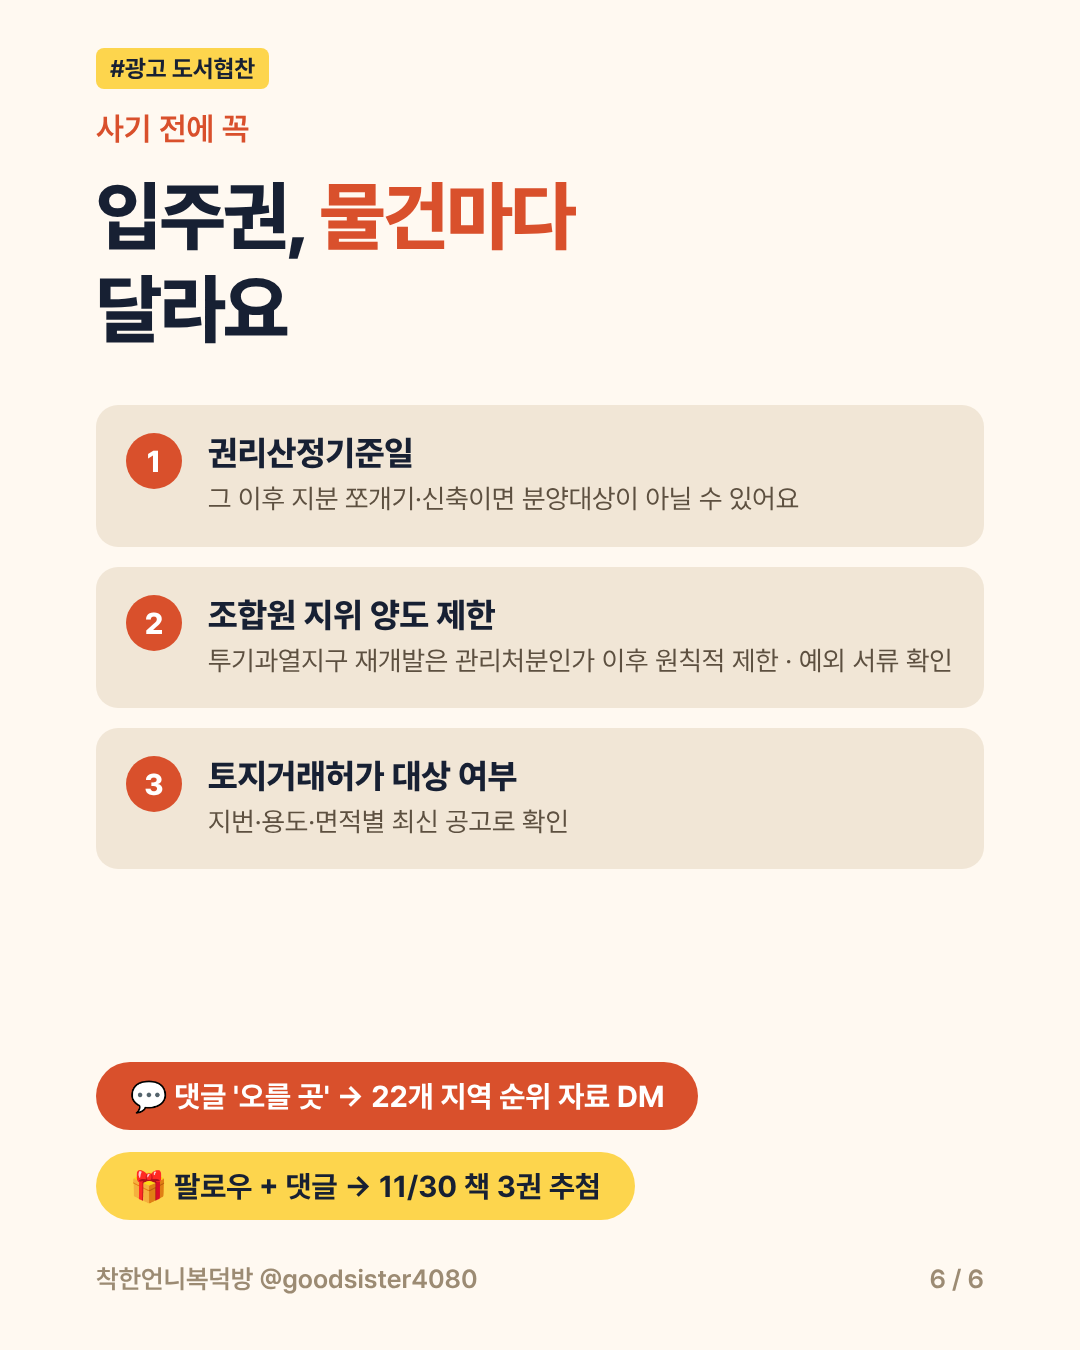
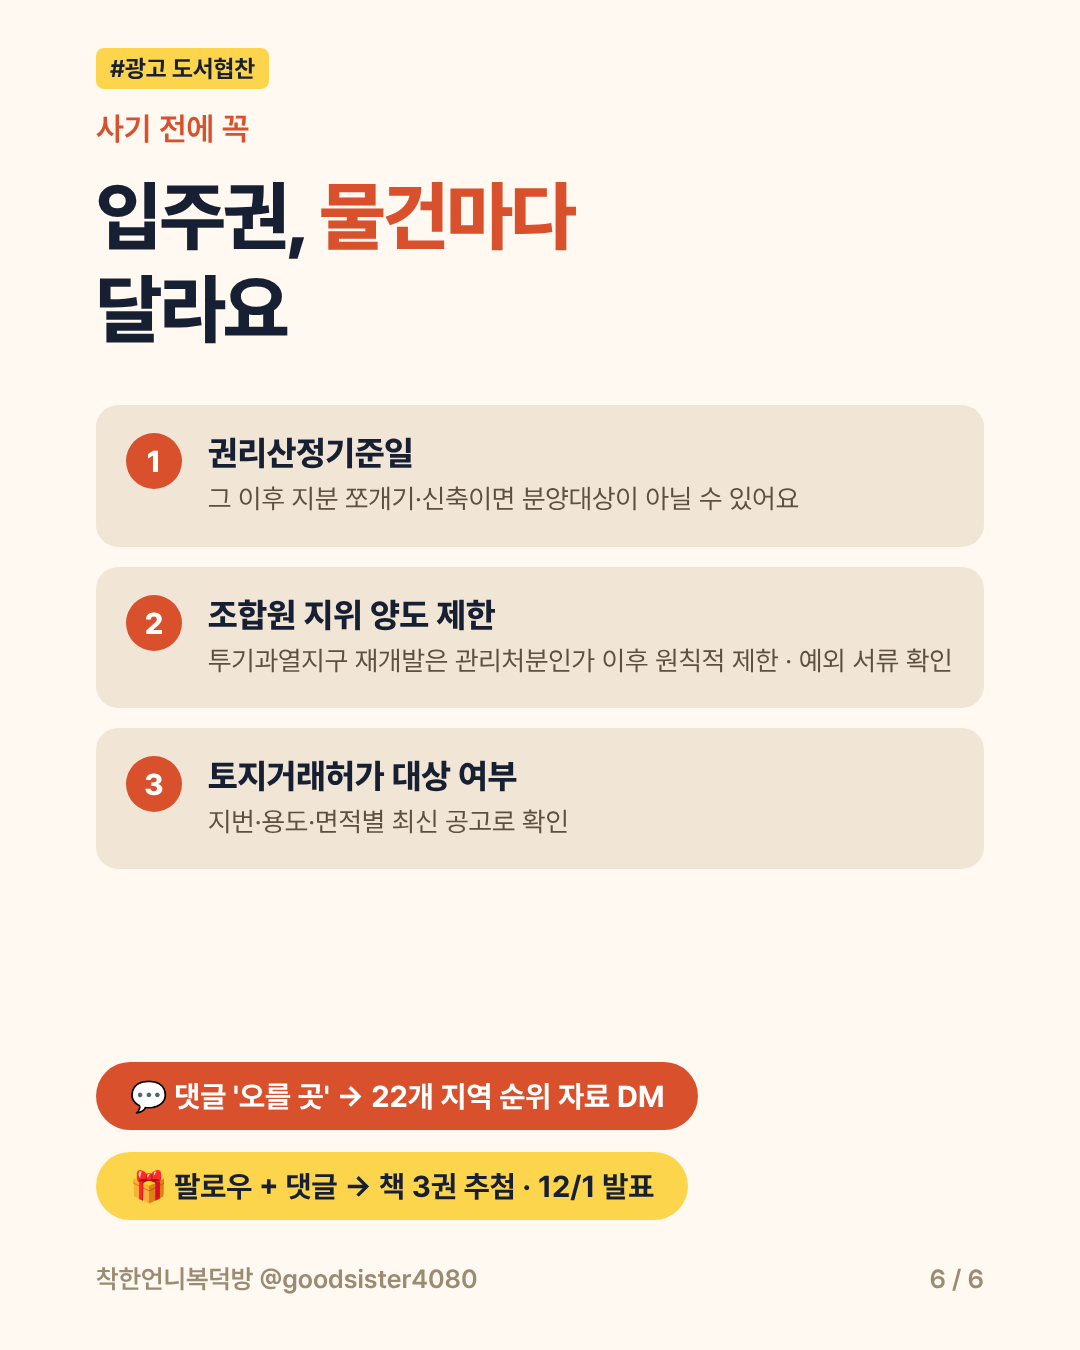
Sillim card: draw date 12/1 on slides 1·6, caption/pinned update, add to upload kit
Claude-Session: https://claude.ai/code/session_01TVq9M4GpnT2XRseWGn9WC1

Changed region(s): [[0.3361, 0.84, 0.6417, 0.9022]]

diff --git a/instagram/cards/kit.html b/instagram/cards/kit.html
@@ -10,7 +10,68 @@ pre{white-space:pre-wrap;word-break:keep-all;margin:0;padding:14px;font-family:i
 code{background:#FFD84D;padding:2px 8px;border-radius:6px}a.back{font-size:14px}
 </style></head><body><div class="w"><a class="back" href="../../">← 대시보드</a><h1>📤 카드뉴스 업로드 키트</h1>
 <p class="note">캡션·고정 댓글·DM 문구를 버튼 한 번으로 복사하세요.</p>
-<section><h2>🚨 잠실권 래미안아이파크 재공급 (DM 없음)</h2><div class="th"><a href="2026-11-17-jamsil/card-1117-1.png?v=3" download><img src="2026-11-17-jamsil/card-1117-1.png?v=3"></a><a href="2026-11-17-jamsil/card-1117-2.png?v=3" download><img src="2026-11-17-jamsil/card-1117-2.png?v=3"></a><a href="2026-11-17-jamsil/card-1117-3.png?v=3" download><img src="2026-11-17-jamsil/card-1117-3.png?v=3"></a><a href="2026-11-17-jamsil/card-1117-4.png?v=3" download><img src="2026-11-17-jamsil/card-1117-4.png?v=3"></a><a href="2026-11-17-jamsil/card-1117-5.png?v=3" download><img src="2026-11-17-jamsil/card-1117-5.png?v=3"></a><a href="2026-11-17-jamsil/card-1117-6.png?v=3" download><img src="2026-11-17-jamsil/card-1117-6.png?v=3"></a></div><p class="note">저장·공유형이라 소셜비즈 설정이 없어요.</p><div class="box"><div class="hd"><b>① 캡션</b><button onclick="cp(this)">복사</button></div><pre>🚨 잠실권 새 아파트 84㎡,
+<section><h2>신림 재개발 (도서협찬 · 12/1 발표)</h2>
+<div class="th"><a href="2026-11-sillim/ig-sillim-1.jpg?v=3" download><img src="2026-11-sillim/ig-sillim-1.jpg?v=3"></a><a href="2026-11-sillim/ig-sillim-2.jpg?v=3" download><img src="2026-11-sillim/ig-sillim-2.jpg?v=3"></a><a href="2026-11-sillim/ig-sillim-3.jpg?v=3" download><img src="2026-11-sillim/ig-sillim-3.jpg?v=3"></a><a href="2026-11-sillim/ig-sillim-4.jpg?v=3" download><img src="2026-11-sillim/ig-sillim-4.jpg?v=3"></a><a href="2026-11-sillim/ig-sillim-5.jpg?v=3" download><img src="2026-11-sillim/ig-sillim-5.jpg?v=3"></a><a href="2026-11-sillim/ig-sillim-6.jpg?v=3" download><img src="2026-11-sillim/ig-sillim-6.jpg?v=3"></a></div><p class="note">이미지를 길게 누르거나(휴대폰) 클릭하면 저장돼요.</p>
+<div class="box"><div class="hd"><b>① 캡션</b><button onclick="cp(this)">복사</button></div><pre>#광고 #도서협찬
+신림 재개발, 구역마다 단계가 달라요 🏗
+
+3구역 입주 완료 (571세대)
+2구역 착공 (1,430세대)
+1구역 사업시행인가 (4,185세대)
+나머지는 이제 출발선이에요.
+(관악구 현황 2026.10.26)
+
+1~3구역 합치면 6,186세대지만
+3구역은 이미 입주했어요.
+입주 시기가 다 다른 6천여 세대예요.
+
+📩 댓글에 &#x27;오를 곳&#x27; 남기시면
+서울·수도권 22개 지역 순위 자료를
+DM으로 보내드려요. (팔로워분들께 발송)
+
+🎁 《이제부터는 오를 곳만 오른다》 3분 추첨
+팔로우 + 댓글이면 참여 완료!
+당첨자 발표 12월 1일(화)
+
+📞 상담은 프로필 링크 → 카톡 채널
+
+착한언니복덕방 팔로우하면
+살이 되고 돈이 되는
+부동산 정보, 계속 드릴게요 💛
+
+출처 | 관악구 재정비촉진구역 현황, 서울시·관악구 고시,
+국토부 실거래, 서울시 신림선 발표
+지도 © OpenStreetMap contributors
+
+#신림재개발 #신림뉴타운 #신림1구역 #신림2구역 #관악구 #재개발 #내집마련 #착한언니복덕방</pre></div><div class="box"><div class="hd"><b>② 고정 댓글</b><button onclick="cp(this)">복사</button></div><pre>🎁 아무 댓글이나 남기셔도 무료자료 보내드릴게요! 💛
+
+책 3권 추첨 당첨자 발표는 12월 1일(화)이에요.
+재개발 궁금한 친구에게도 공유해 주세요. 🏗</pre></div><div class="box"><div class="hd"><b>③ 노션 자료 링크 · 「6년 뒤 서울 부동산 순위 · 22개 지역 순위」 (2차 DM [자료 받기] 버튼에 넣기)</b><button onclick="cp(this)">복사</button></div><pre>https://www.notion.so/40ff79216746812d8709d8e029ff0606</pre></div><p class="note">링크가 로그인 없이 열리는지 시크릿 창으로 한 번 확인해 주세요. 노션에서 "웹에 게시"가 켜져 있어야 열려요.</p>
+<h3>소셜비즈 설정 · 키워드 <code>오를 곳</code></h3>
+<p class="note">팔로워/논팔로워 구분 발송 · 텍스트 버튼 사용</p><div class="box"><div class="hd"><b>1차 기본 메시지 (+ [팔로우했어요] 버튼)</b><button onclick="cp(this)">복사</button></div><pre>안녕하세요! 착한언니복덕방입니다. 👋
+
+재개발·새 아파트, 어디가 오를지 헷갈리지 않도록
+서울·수도권 22개 지역 순위를
+한눈에 볼 수 있게 정리했어요.
+
+이 자료는 착한언니복덕방을 응원해 주시는
+팔로워분들께 무료로 공유하고 있어요. 😊
+
+팔로우하셨다면 아래 버튼을 눌러주세요!</pre></div><div class="box"><div class="hd"><b>2차 팔로워에게 보낼 메시지 (+ [자료받기] 버튼 → URL)</b><button onclick="cp(this)">복사</button></div><pre>📋 6년 뒤 서울 부동산 순위 · 22개 지역
+
+재개발 소식은 많은데
+어디가 진짜 오를 곳인지 판단하기 어렵죠.
+
+그래서 《이제부터는 오를 곳만 오른다》를 읽고
+서울·수도권 22개 지역 순위를 정리했어요.
+
+📚 책 3권 추첨 당첨자 발표는 12월 1일(화)이에요.
+
+내 집 마련은 꼼꼼한 준비에서 시작돼요.
+착한언니복덕방이 응원합니다. 👏
+
+👇 [자료 받기] 클릭!</pre></div><div class="box"><div class="hd"><b>[자료받기] 버튼 URL</b><button onclick="cp(this)">복사</button></div><pre>https://www.notion.so/40ff79216746812d8709d8e029ff0606</pre></div><div class="box"><div class="hd"><b>댓글에 답글 남기기 (선택)</b><button onclick="cp(this)">복사</button></div><pre>DM 보내드렸어요! 📩 메시지함 확인해 주세요</pre></div>
+</section><section><h2>🚨 잠실권 래미안아이파크 재공급 (DM 없음)</h2><div class="th"><a href="2026-11-17-jamsil/card-1117-1.png?v=3" download><img src="2026-11-17-jamsil/card-1117-1.png?v=3"></a><a href="2026-11-17-jamsil/card-1117-2.png?v=3" download><img src="2026-11-17-jamsil/card-1117-2.png?v=3"></a><a href="2026-11-17-jamsil/card-1117-3.png?v=3" download><img src="2026-11-17-jamsil/card-1117-3.png?v=3"></a><a href="2026-11-17-jamsil/card-1117-4.png?v=3" download><img src="2026-11-17-jamsil/card-1117-4.png?v=3"></a><a href="2026-11-17-jamsil/card-1117-5.png?v=3" download><img src="2026-11-17-jamsil/card-1117-5.png?v=3"></a><a href="2026-11-17-jamsil/card-1117-6.png?v=3" download><img src="2026-11-17-jamsil/card-1117-6.png?v=3"></a></div><p class="note">저장·공유형이라 소셜비즈 설정이 없어요.</p><div class="box"><div class="hd"><b>① 캡션</b><button onclick="cp(this)">복사</button></div><pre>🚨 잠실권 새 아파트 84㎡,
 옆집은 43억, 이 집은 18억 7천이에요
 📌 11/23 접수 전에 저장해 두세요.
 
@@ -24,7 +85,7 @@ code{background:#FFD84D;padding:2px 8px;border-radius:6px}a.back{font-size:14px}
 
 📅 신혼 특공 11/23(월) · 일반 11/24(화)
 📅 발표 11/27(금) · 계약 12/4(금)
-👉 신청은 청약홈에서
+👉 접수는 청약홈(applyhome.co.kr)에서 하면 돼요
 
 일반공급은 서울 거주 무주택 세대주,
 청약통장·가점·소득·자산 상관없이 추첨이에요.

diff --git a/instagram/cards/2026-11-sillim/cards.html b/instagram/cards/2026-11-sillim/cards.html
@@ -74,7 +74,7 @@ tr.hl td{background:#172033;color:#fff}tr.hl td small{color:#AEB6C8}tr.hl td .r{
   <p class="sub">3구역 <b>입주</b> · 2구역 <b>착공</b> · 1구역 <b>사업시행인가</b><br>나머지는 이제 출발선</p>
   <div class="ctas">
     <span class="pill y">💬 댓글 '오를 곳' → 22개 지역 순위 자료</span>
-    <span class="pill">🎁 11/30 《이제부터는 오를 곳만 오른다》 3권 추첨</span>
+    <span class="pill">🎁 《이제부터는 오를 곳만 오른다》 3권 추첨 · 12/1 발표</span>
   </div>
   <span class="ref">배경: 관악구 공고 제2026-1274호 결정도</span><div class="foot"><span>착한언니복덕방 @goodsister4080</span><span>1 / 6</span></div>
 </section>
@@ -150,7 +150,7 @@ tr.hl td{background:#172033;color:#fff}tr.hl td small{color:#AEB6C8}tr.hl td .r{
   </div>
   <div class="ctas" style="bottom:130px">
     <span class="pill">💬 댓글 '오를 곳' → 22개 지역 순위 자료 DM</span>
-    <span class="pill y">🎁 팔로우 + 댓글 → 11/30 책 3권 추첨</span>
+    <span class="pill y">🎁 팔로우 + 댓글 → 책 3권 추첨 · 12/1 발표</span>
   </div>
   <div class="foot"><span>착한언니복덕방 @goodsister4080</span><span>6 / 6</span></div>
 </section>

diff --git a/instagram/cards/2026-11-sillim/README.md b/instagram/cards/2026-11-sillim/README.md
@@ -2,7 +2,7 @@
 
 **형식**: 6장 (2장 = 1~4구역 지도) · 댓글 키워드 `오를 곳` · **#광고 도서협찬 표기 필수**
 **연결**: 릴스(신림뉴타운) · 블로그 [naver/paste/2026-11-sillim.html](../../../naver/paste/2026-11-sillim.html) · 노션 「6년 뒤 서울 부동산 순위」
-**보상**: 22개 지역 순위 자료(노션) DM · 11/30 《이제부터는 오를 곳만 오른다》 3권 추첨
+**보상**: 22개 지역 순위 자료(노션) DM · 《이제부터는 오를 곳만 오른다》 3권 추첨 · 당첨자 발표 12/1(화)
 **도면**: 1장 배경·2장 지도 = 관악구 공고 제2026-1274호 재정비촉진구역 결정도 (공식 공고 도면, 구역 색은 착한언니 표시) · 2장은 OpenStreetMap 실제 지도 위에 축척(1:5,000) 맞춰 겹침 → 캡션·이미지에 `© OpenStreetMap contributors` 필수
 **소스**: `cards.html` (과천 카드 디자인 재사용) → 1080×1350 PNG
 
@@ -25,18 +25,27 @@
 서울·수도권 22개 지역 순위 자료를
 DM으로 보내드려요. (팔로워분들께 발송)
 
-🎁 11/30 《이제부터는 오를 곳만 오른다》
-3분 추첨 · 팔로우 + 댓글
+🎁 《이제부터는 오를 곳만 오른다》 3분 추첨
+팔로우 + 댓글이면 참여 완료!
+당첨자 발표 12월 1일(화)
 
 📞 상담은 프로필 링크 → 카톡 채널
 
+착한언니복덕방 팔로우하면
+살이 되고 돈이 되는
+부동산 정보, 계속 드릴게요 💛
+
 출처 | 관악구 재정비촉진구역 현황, 서울시·관악구 고시,
 국토부 실거래, 서울시 신림선 발표
+지도 © OpenStreetMap contributors
 
 #신림재개발 #신림뉴타운 #신림1구역 #신림2구역 #관악구 #재개발 #내집마련 #착한언니복덕방
 ```
 
 ## 고정 댓글
 ```
-👇 '오를 곳' 댓글 남겨주세요! 순서대로 DM 드려요 (11/30 책 추첨도 함께 💛)
+🎁 아무 댓글이나 남기셔도 무료자료 보내드릴게요! 💛
+
+책 3권 추첨 당첨자 발표는 12월 1일(화)이에요.
+재개발 궁금한 친구에게도 공유해 주세요. 🏗
 ```
